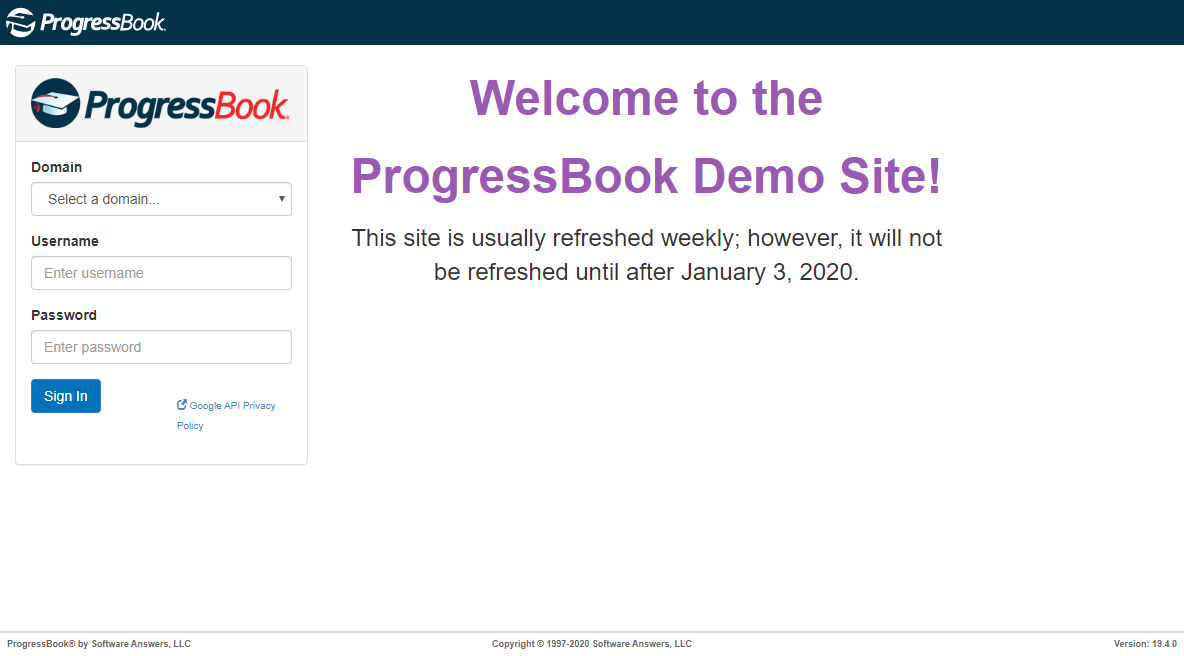
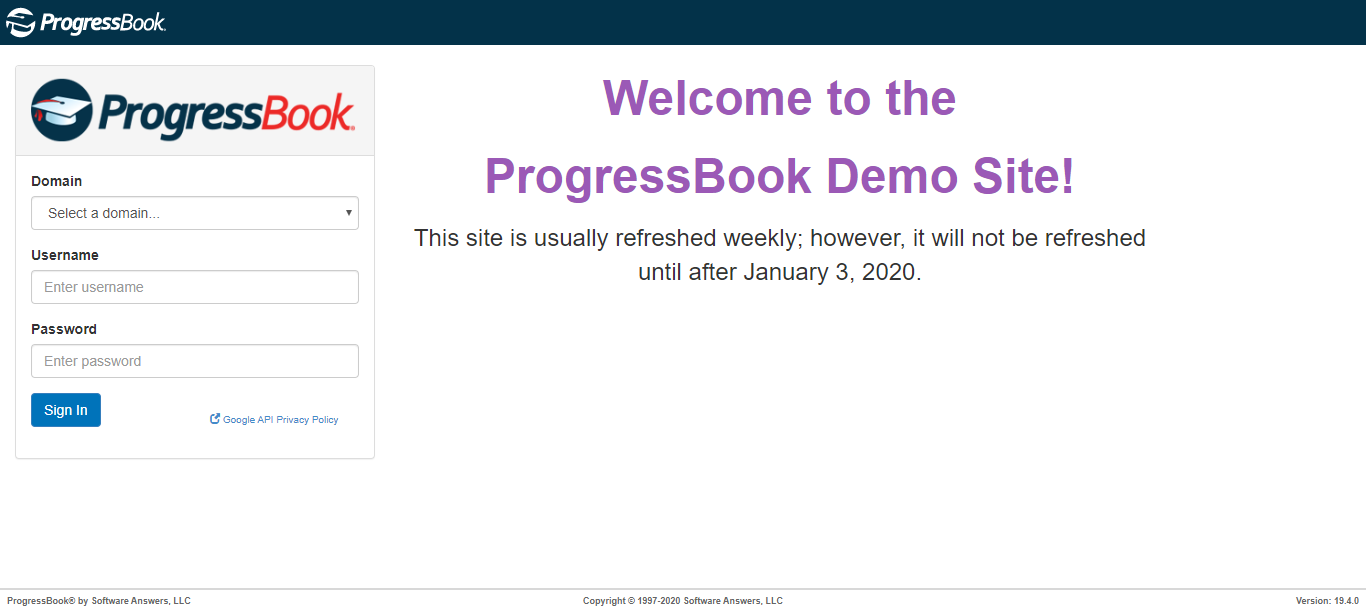
updated

diff --git a/ProgressBookResponsiveAutomation/target/1-homepage-layout.html b/ProgressBookResponsiveAutomation/target/1-homepage-layout.html
@@ -14,13 +14,13 @@ var reportData = {
     "nodes" : [ {
       "name" : "check homepage layout",
       "status" : "error",
-      "time" : 1578023446526,
+      "time" : 1578028838413,
       "includedTags" : [ "desktop" ],
       "excludedTags" : [ ],
       "sections" : [ {
         "name" : "Home Page",
         "place" : {
-          "filePath" : "specs/homepage.gspec",
+          "filePath" : "specs/LoginPage.gspec",
           "lineNumber" : 11
         },
         "objects" : [ {
@@ -28,7 +28,7 @@ var reportData = {
           "specs" : [ {
             "status" : "error",
             "place" : {
-              "filePath" : "specs/homepage.gspec",
+              "filePath" : "specs/LoginPage.gspec",
               "lineNumber" : 16
             },
             "name" : "inside screen 10px top",
@@ -37,7 +37,7 @@ var reportData = {
           }, {
             "status" : "error",
             "place" : {
-              "filePath" : "specs/homepage.gspec",
+              "filePath" : "specs/LoginPage.gspec",
               "lineNumber" : 17
             },
             "name" : "inside screen 10px left",
@@ -46,7 +46,7 @@ var reportData = {
           }, {
             "status" : "error",
             "place" : {
-              "filePath" : "specs/homepage.gspec",
+              "filePath" : "specs/LoginPage.gspec",
               "lineNumber" : 18
             },
             "name" : "inside screen 10px right",
@@ -58,7 +58,7 @@ var reportData = {
           "specs" : [ {
             "status" : "error",
             "place" : {
-              "filePath" : "specs/homepage.gspec",
+              "filePath" : "specs/LoginPage.gspec",
               "lineNumber" : 23
             },
             "name" : "below header 31px",
@@ -67,7 +67,7 @@ var reportData = {
           }, {
             "status" : "error",
             "place" : {
-              "filePath" : "specs/homepage.gspec",
+              "filePath" : "specs/LoginPage.gspec",
               "lineNumber" : 25
             },
             "name" : "image file sw-logo.png, error %5",
@@ -79,7 +79,7 @@ var reportData = {
           "specs" : [ {
             "status" : "error",
             "place" : {
-              "filePath" : "specs/homepage.gspec",
+              "filePath" : "specs/LoginPage.gspec",
               "lineNumber" : 35
             },
             "name" : "above follow-us-box 20px",

diff --git a/ProgressBookResponsiveAutomation/target/report.html b/ProgressBookResponsiveAutomation/target/report.html
@@ -11,9 +11,9 @@
         <script>
 var reportData = {
   "tests" : [ {
-    "name" : "homepage layout",
-    "startedAt" : 1578023446526,
-    "endedAt" : 1578023446526,
+    "name" : "Login page layout",
+    "startedAt" : 1578028952242,
+    "endedAt" : 1578028952242,
     "failed" : true,
     "statistic" : {
       "passed" : 0,
@@ -21,9 +21,9 @@ var reportData = {
       "warnings" : 0,
       "total" : 6
     },
-    "testId" : "1-homepage-layout",
-    "duration" : 0,
-    "failed" : true
+    "testId" : "1-login-page-layout",
+    "failed" : true,
+    "duration" : 0
   } ]
 };
 

diff --git a/ProgressBookResponsiveAutomation/src/test/java/com/progressbook/test/HomePageTest.java b/ProgressBookResponsiveAutomation/src/test/java/com/progressbook/test/HomePageTest.java
@@ -1,72 +1,72 @@
-package com.progressbook.test;
-import com.galenframework.api.Galen;
-import com.galenframework.reports.GalenTestInfo;
-import com.galenframework.reports.HtmlReportBuilder;
-import com.galenframework.reports.model.LayoutReport;
-import org.junit.After;
-import org.junit.Assert;
-import org.junit.Before;
-import org.junit.Test;
-import org.openqa.selenium.Dimension;
-import org.openqa.selenium.WebDriver;
-import org.openqa.selenium.chrome.ChromeDriver;
-
-import java.io.IOException;
-import java.util.Arrays;
-import java.util.LinkedList;
-import java.util.List;
-
-public class HomePageTest
-{
-    private WebDriver driver;
-
-    @Before
-    public void setUp()
-    {
-      
-        driver = new ChromeDriver();
-        //Set the browser size for desktop
-        driver.manage().window().setSize(new Dimension(1200, 800));
-        //Go to swtestacademy.com
-        driver.get("https://demo-ca.progressbook.com/");
-    }
-
-    @Test
-    public void homePageLayoutTest() throws IOException
-    {
-        //Create a layoutReport object
-        //checkLayout function checks the layout and returns a LayoutReport object
-        LayoutReport layoutReport = Galen.checkLayout(driver, "specs/homepage.gspec", Arrays.asList("desktop"));
-
-        //Create a tests list
-        List<GalenTestInfo> tests = new LinkedList<GalenTestInfo>();
-
-        //Create a GalenTestInfo object
-        GalenTestInfo test = GalenTestInfo.fromString("homepage layout");
-
-        //Get layoutReport and assign to test object
-        test.getReport().layout(layoutReport, "check homepage layout");
-
-        //Add test object to the tests list
-        tests.add(test);
-
-        //Create a htmlReportBuilder object
-        HtmlReportBuilder htmlReportBuilder = new HtmlReportBuilder();
-
-        //Create a report under /target folder based on tests list
-        htmlReportBuilder.build(tests, "target");
-
-//        If layoutReport has errors Assert Fail
-        if (layoutReport.errors() > 0)
-        {
-            Assert.fail("Layout test failed");
-        }
-    }
-
-    @After
-    public void tearDown()
-    {
-        driver.quit();
-    }
-
-}
+//package com.progressbook.test;
+//import com.galenframework.api.Galen;
+//import com.galenframework.reports.GalenTestInfo;
+//import com.galenframework.reports.HtmlReportBuilder;
+//import com.galenframework.reports.model.LayoutReport;
+//import org.junit.After;
+//import org.junit.Assert;
+//import org.junit.Before;
+//import org.junit.Test;
+//import org.openqa.selenium.Dimension;
+//import org.openqa.selenium.WebDriver;
+//import org.openqa.selenium.chrome.ChromeDriver;
+//
+//import java.io.IOException;
+//import java.util.Arrays;
+//import java.util.LinkedList;
+//import java.util.List;
+//
+//public class HomePageTest
+//{
+//    private WebDriver driver;
+//
+//    @Before
+//    public void setUp()
+//    {
+//      
+//        driver = new ChromeDriver();
+//        //Set the browser size for desktop
+//        driver.manage().window().setSize(new Dimension(1200, 800));
+//        //Go to swtestacademy.com
+//        driver.get("https://demo-ca.progressbook.com/");
+//    }
+//
+//    @Test
+//    public void homePageLayoutTest() throws IOException
+//    {
+//        //Create a layoutReport object
+//        //checkLayout function checks the layout and returns a LayoutReport object
+//        LayoutReport layoutReport = Galen.checkLayout(driver, "specs/homepage.gspec", Arrays.asList("desktop"));
+//
+//        //Create a tests list
+//        List<GalenTestInfo> tests = new LinkedList<GalenTestInfo>();
+//
+//        //Create a GalenTestInfo object
+//        GalenTestInfo test = GalenTestInfo.fromString("homepage layout");
+//
+//        //Get layoutReport and assign to test object
+//        test.getReport().layout(layoutReport, "check homepage layout");
+//
+//        //Add test object to the tests list
+//        tests.add(test);
+//
+//        //Create a htmlReportBuilder object
+//        HtmlReportBuilder htmlReportBuilder = new HtmlReportBuilder();
+//
+//        //Create a report under /target folder based on tests list
+//        htmlReportBuilder.build(tests, "target");
+//
+////        If layoutReport has errors Assert Fail
+//        if (layoutReport.errors() > 0)
+//        {
+//            Assert.fail("Layout test failed");
+//        }
+//    }
+//
+//    @After
+//    public void tearDown()
+//    {
+//        driver.quit();
+//    }
+//
+//}

diff --git a/ProgressBookResponsiveAutomation/src/test/java/com/progressbook/test/LoginPageTest.java b/ProgressBookResponsiveAutomation/src/test/java/com/progressbook/test/LoginPageTest.java
@@ -3,31 +3,37 @@ import com.galenframework.api.Galen;
 import com.galenframework.reports.GalenTestInfo;
 import com.galenframework.reports.HtmlReportBuilder;
 import com.galenframework.reports.model.LayoutReport;
+
+import org.junit.After;
 import org.junit.After;
 import org.junit.Assert;
+import org.junit.Before;
 import org.junit.Before;
 import org.junit.Test;
 import org.openqa.selenium.Dimension;
 import org.openqa.selenium.WebDriver;
 import org.openqa.selenium.chrome.ChromeDriver;
+import org.openqa.selenium.firefox.FirefoxDriver;
+import org.openqa.selenium.remote.DesiredCapabilities;
 
 import java.io.IOException;
 import java.util.Arrays;
 import java.util.LinkedList;
 import java.util.List;
+import java.util.concurrent.TimeUnit;
 
 public class LoginPageTest
 {
-    public WebDriver driver;
+    private WebDriver driver;
 
     @Before
     public void setUp()
     {
       
         driver = new ChromeDriver();
-//        Set the browser size for desktop    	
-        driver.manage().window().setSize(new Dimension(1200, 800));
-        //Go to swtestacademy.com
+//        Set the browser size for desktop   
+      driver.manage().window().maximize();
+//        driver.manage().window().setSize(new Dimension(1200, 800));
         driver.get("https://demo-ca.progressbook.com/");
     }
 
@@ -36,16 +42,16 @@ public class LoginPageTest
     {
 //        Create a layoutReport object
 //        checkLayout function checks the layout and returns a LayoutReport object
-        LayoutReport layoutReport = Galen.checkLayout(driver, "specs/homepage.gspec", Arrays.asList("desktop"));
+        LayoutReport layoutReport = Galen.checkLayout(driver, "specs/LoginPage.gspec", Arrays.asList("desktop"));
 
         //Create a tests list
         List<GalenTestInfo> tests = new LinkedList<GalenTestInfo>();
 
         //Create a GalenTestInfo object
-        GalenTestInfo test = GalenTestInfo.fromString("homepage layout");
+        GalenTestInfo test = GalenTestInfo.fromString("Login page layout");
 
         //Get layoutReport and assign to test object
-        test.getReport().layout(layoutReport, "check homepage layout");
+        test.getReport().layout(layoutReport, "Check login page layout");
 
         //Add test object to the tests list
         tests.add(test);
@@ -70,3 +76,6 @@ public class LoginPageTest
     }
 
 }
+
+
+ 
